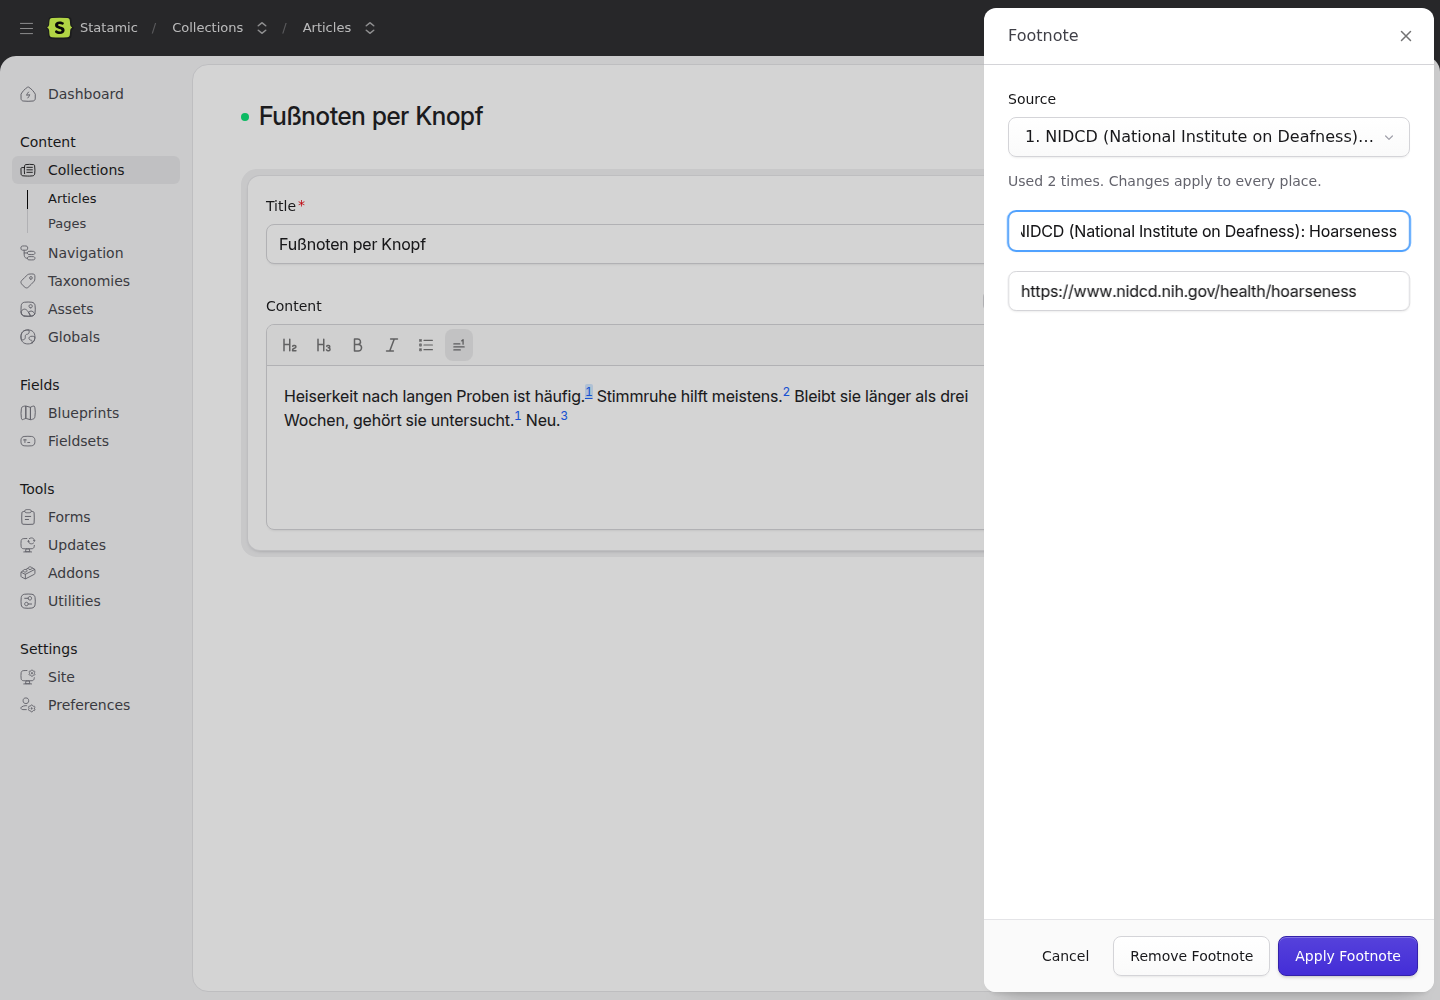
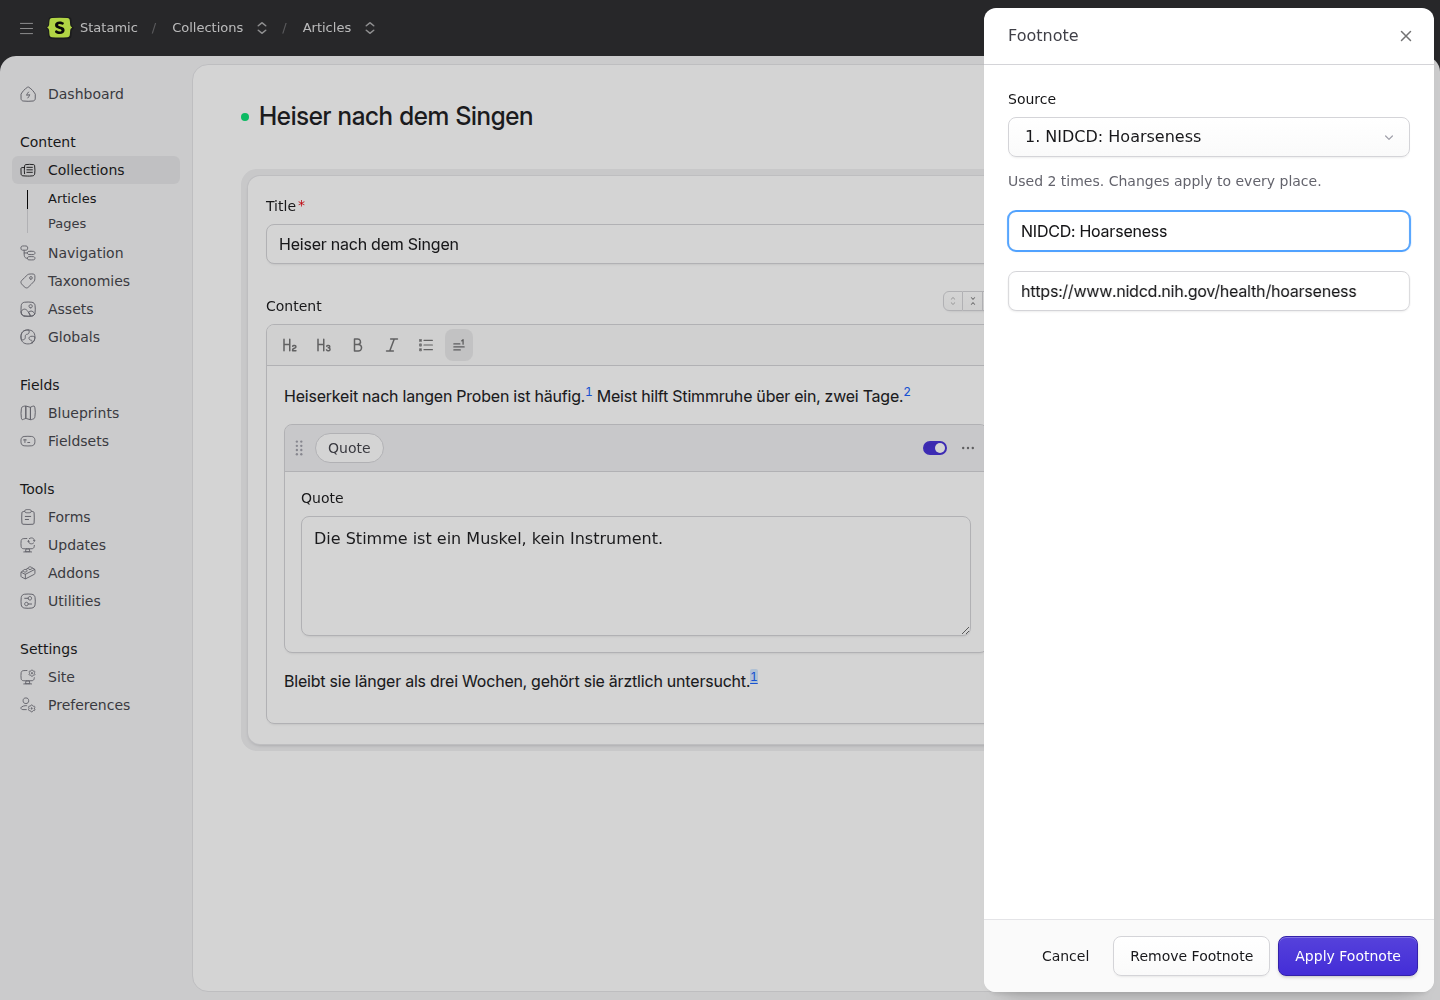
docs(bard-footnotes): clean 2.0 screenshots, lang override path for Laravel 13

diff --git a/bard-footnotes/writing.md b/bard-footnotes/writing.md
@@ -59,8 +59,8 @@ The panel says so: "Used 2 times. Changes apply to every place."
 
 <Figure
   src="bard-footnotes-edit-shared"
-  alt="The Control Panel with the Footnote panel open on an existing footnote: the select shows the first source, a hint reads Used 2 times, and the source and link fields are filled in. In the editor on the left the numbers 1, 2, 1 and 3 are visible"
-  caption="Editing a source that appears twice. The hint under the select says it is used 2 times; applying the change updates both places. The editor on the left shows the live numbers 1, 2, 1, 3." />
+  alt="The Control Panel with the Footnote panel open on an existing footnote: the select shows the first source, a hint reads Used 2 times, and the source and link fields are filled in. In the editor on the left the numbers 1 and 2 stand before a quote set, and 1 again after it"
+  caption="Editing a source that appears twice. The hint under the select says it is used 2 times; applying the change updates both places. The editor on the left shows the live numbers 1, 2 and, after the quote set, 1 again." />
 
 **Switch to another source.** Pick a different source in the select, or “New
 source”, and only **this** footnote is re-pointed. The other places citing the

diff --git a/bard-footnotes/index.md b/bard-footnotes/index.md
@@ -30,8 +30,8 @@ second field, no typed `[1]`, no numbers to keep in sync by hand.
 
 <Figure
   src="bard-footnotes-frontend"
-  alt="The frontend: the article with a superscript 1 behind a sentence, and below it the source list under the heading Sources, with a back arrow per row"
-  caption="The frontend: superscript links in the text, the source list under “Sources” with a ↩ back link per row." />
+  alt="The frontend: a paragraph with footnotes 1 and 2, a quote set, a paragraph citing source 1 again, and below it the source list under the heading Sources, with a back arrow per row"
+  caption="The frontend: superscript links in the text, numbered across the quote set; the second citation of the NIDCD source reuses number 1. Below, the source list under “Sources” with a ↩ back link per row." />
 
 ## What you get
 

diff --git a/bard-footnotes/styling.md b/bard-footnotes/styling.md
@@ -73,6 +73,6 @@ file:
 
 Statamic resolves the site's locale against these automatically. Another
 language, or different wording, needs no fork: a
-`resources/lang/vendor/bard-footnotes/<locale>/messages.php` in your app
+`lang/vendor/bard-footnotes/<locale>/messages.php` in your app
 overrides the package strings — Laravel's standard mechanism for package
 translations, and it survives `composer update`.
